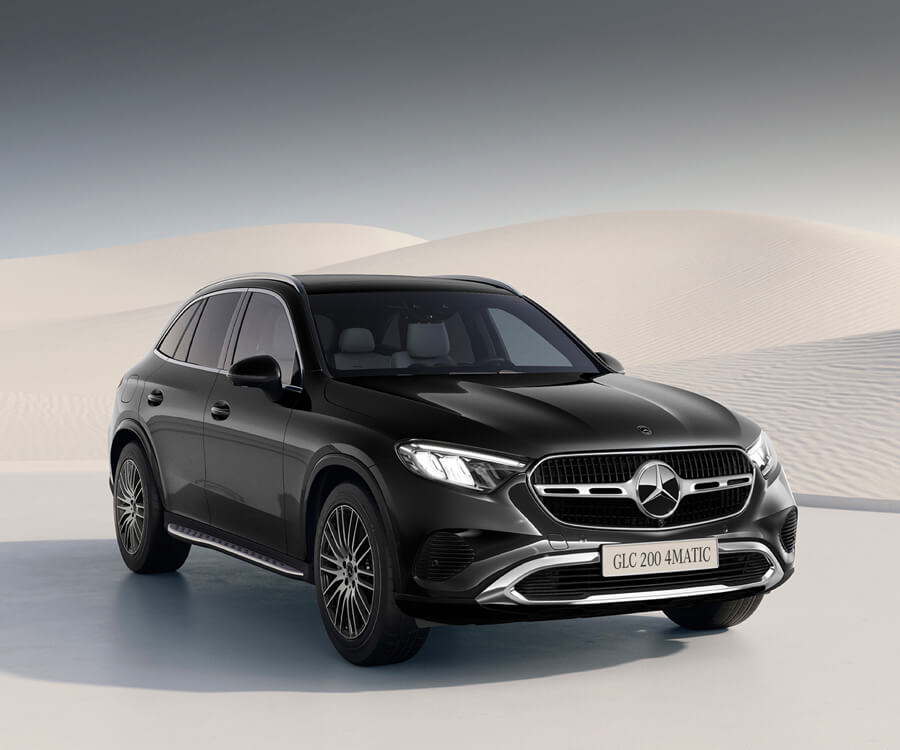
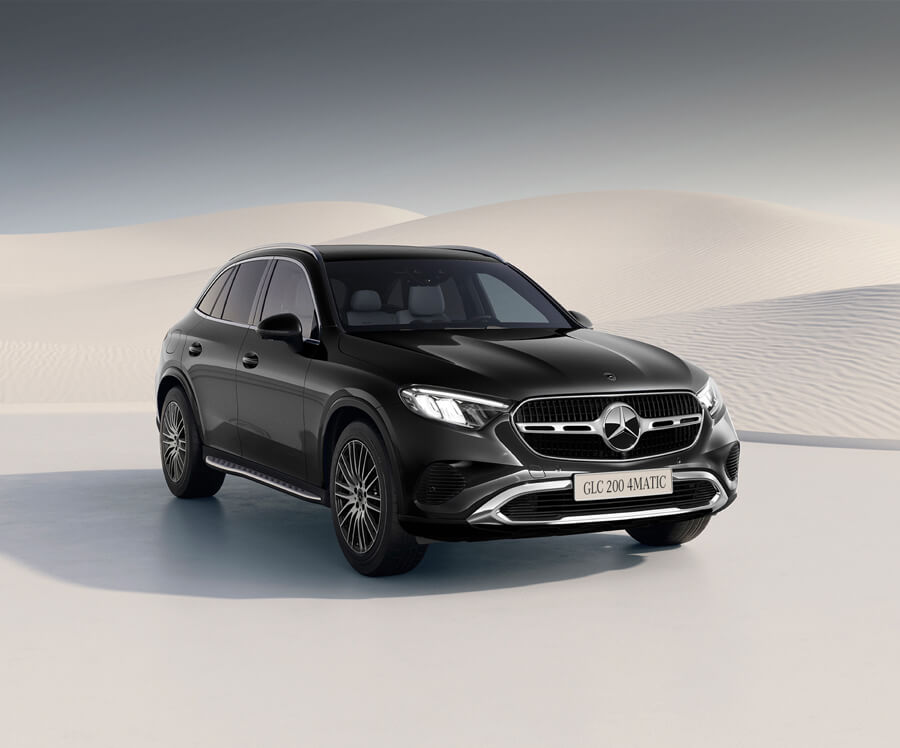
Add files via upload

diff --git a/2024/03/GLC-BATCH1/ver3/300x250/300x250.js b/2024/03/GLC-BATCH1/ver3/300x250/300x250.js
@@ -12,7 +12,7 @@ lib.ssMetadata = [];
 (lib.bg1 = function() {
 	this.initialize(img.bg1);
 }).prototype = p = new cjs.Bitmap();
-p.nominalBounds = new cjs.Rectangle(0,0,900,750);
+p.nominalBounds = new cjs.Rectangle(0,0,900,748);
 
 
 (lib.bg2 = function() {
@@ -227,12 +227,12 @@ p.nominalBounds = new cjs.Rectangle(0,0,48.3,69);
 	// Layer_2
 	this.instance = new lib.bg1();
 	this.instance.parent = this;
-	this.instance.setTransform(-3,-2,0.3378,0.3377);
+	this.instance.setTransform(-3,0,0.3369,0.3369);
 
 	this.timeline.addTween(cjs.Tween.get(this.instance).wait(1));
 
 }).prototype = p = new cjs.MovieClip();
-p.nominalBounds = new cjs.Rectangle(-3,-2,304,253.3);
+p.nominalBounds = new cjs.Rectangle(-3,0,303.2,252);
 
 
 (lib.Symbol27 = function(mode,startPosition,loop) {
@@ -423,7 +423,7 @@ p.nominalBounds = new cjs.Rectangle(-37.1,-44.4,372,328.9);
 	this.timeline.addTween(cjs.Tween.get(this.instance).wait(1));
 
 }).prototype = p = new cjs.MovieClip();
-p.nominalBounds = new cjs.Rectangle(132.3,110.9,184.39999999999998,153.6);
+p.nominalBounds = new cjs.Rectangle(132.3,113.1,183.5,152.20000000000002);
 // library properties:
 lib.properties = {
 	id: 'CC7D37763753984998DC0DE70763E649',
@@ -433,11 +433,11 @@ lib.properties = {
 	color: "#FFFFFF",
 	opacity: 1.00,
 	manifest: [
-		{src:"images/bg1.jpg?1712126529573", id:"bg1"},
-		{src:"images/bg2.jpg?1712126529573", id:"bg2"},
-		{src:"images/bg3.jpg?1712126529573", id:"bg3"},
-		{src:"images/bg4.jpg?1712126529573", id:"bg4"},
-		{src:"images/logo.png?1712126529573", id:"logo"}
+		{src:"images/bg1.jpg?1712133930584", id:"bg1"},
+		{src:"images/bg2.jpg?1712133930584", id:"bg2"},
+		{src:"images/bg3.jpg?1712133930584", id:"bg3"},
+		{src:"images/bg4.jpg?1712133930584", id:"bg4"},
+		{src:"images/logo.png?1712133930584", id:"logo"}
 	],
 	preloads: []
 };
